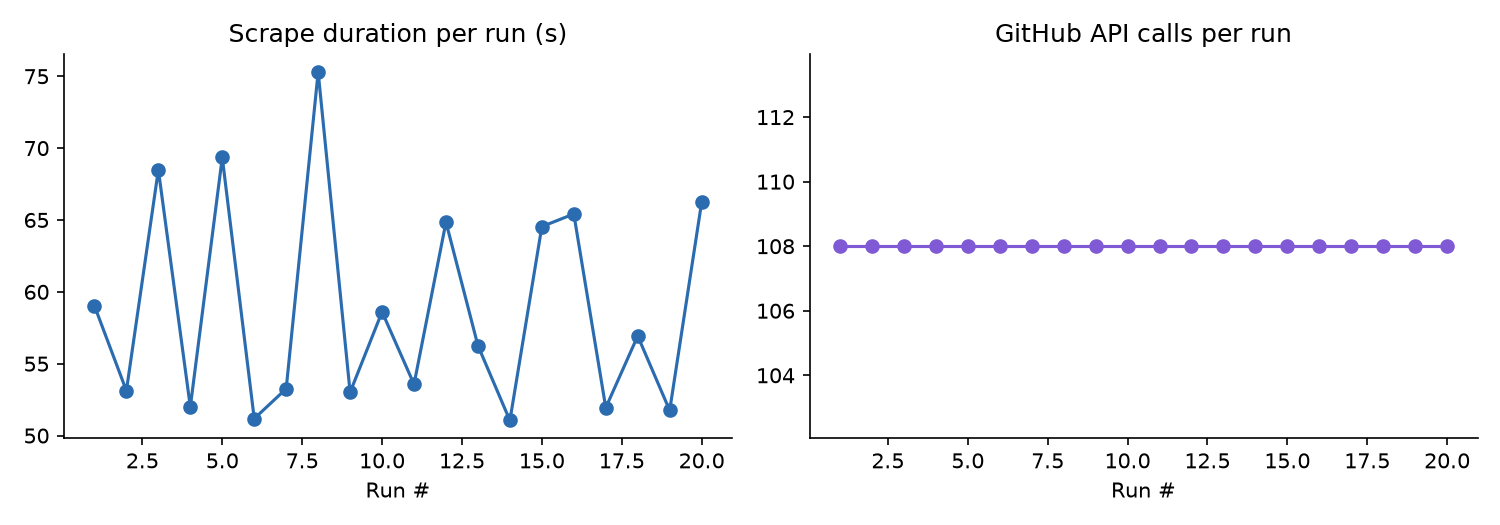
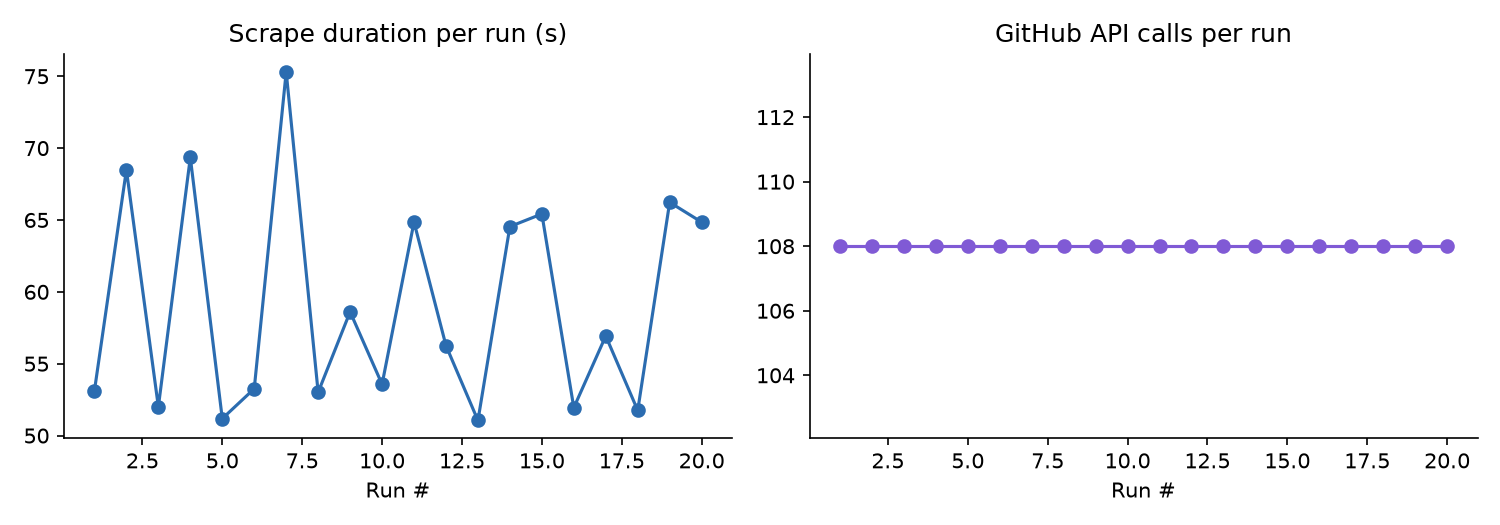
Weekly issue tracker refresh

Changed region(s): [[0.0613, 0.1219, 0.46, 0.8229], [0.4293, 0.3657, 0.4907, 0.4571]]

diff --git a/README.md b/README.md
@@ -81,7 +81,7 @@ See [CONTRIBUTING.md](CONTRIBUTING.md) for the full contributor workflow — inc
 
 <!-- TRACKER:START -->
 
-_Last updated: 2026-08-02 17:45 UTC_
+_Last updated: 2026-08-02 18:09 UTC_
 
 _Tracking **18** upstream repos, **388** relevant open issues._
 
@@ -295,7 +295,7 @@ _Tracking **18** upstream repos, **388** relevant open issues._
 
 <!-- METRICS:START -->
 
-_Last run: 2026-08-02 17:44 UTC, took **66.2s**, **108** GitHub API calls, **4786/5000** rate limit remaining._
+_Last run: 2026-08-02 18:08 UTC, took **64.8s**, **108** GitHub API calls, **4679/5000** rate limit remaining._
 
 ![Scrape metrics trend](assets/metrics_trend.png)
 
